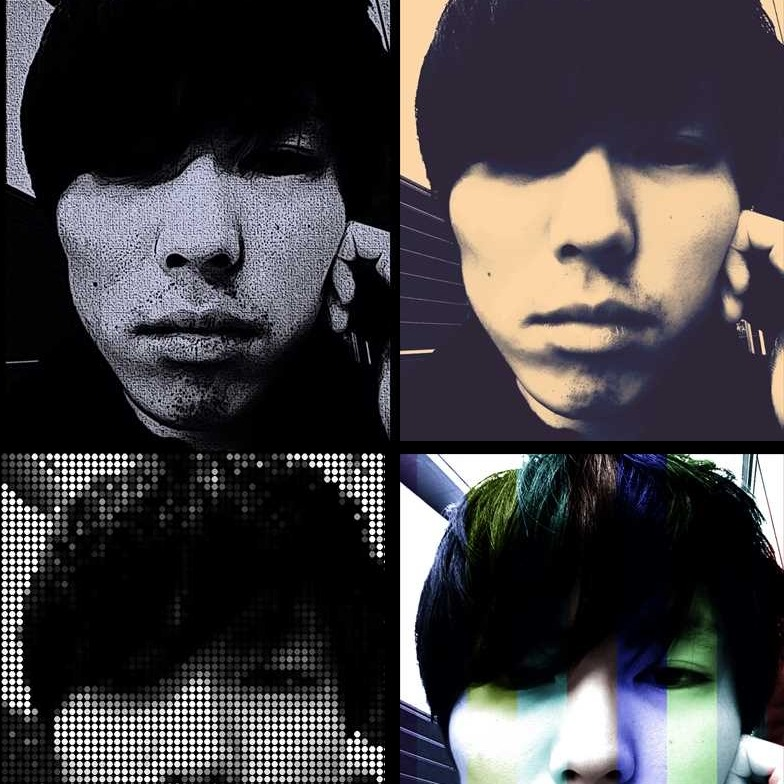
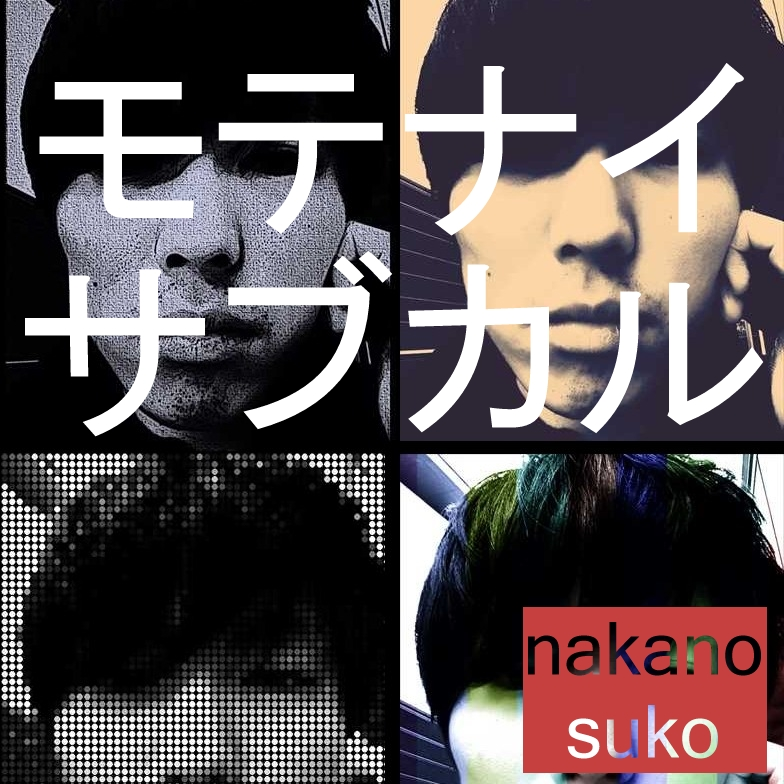
タイトル画面変更

diff --git a/archive.html b/archive.html
@@ -69,7 +69,7 @@ div.textinfo {
 	<img src="http://kaepa3.github.io/title.jpeg" width=20% alt="アートカバー">
 <!--/ #titleimg--></div>
 <div id="itunelink">
-	<a Href="https://itunes.apple.com/jp/podcast/tkcno-man-cai-tai-lang/id845711312?l=en">itunes Link</a>
+	<a target="_blank" Href="https://itunes.apple.com/jp/podcast/tkcno-man-cai-tai-lang/id845711312?l=en">itunes Link</a>
 <!--/ #itunelink--></div>
 
 <table>
